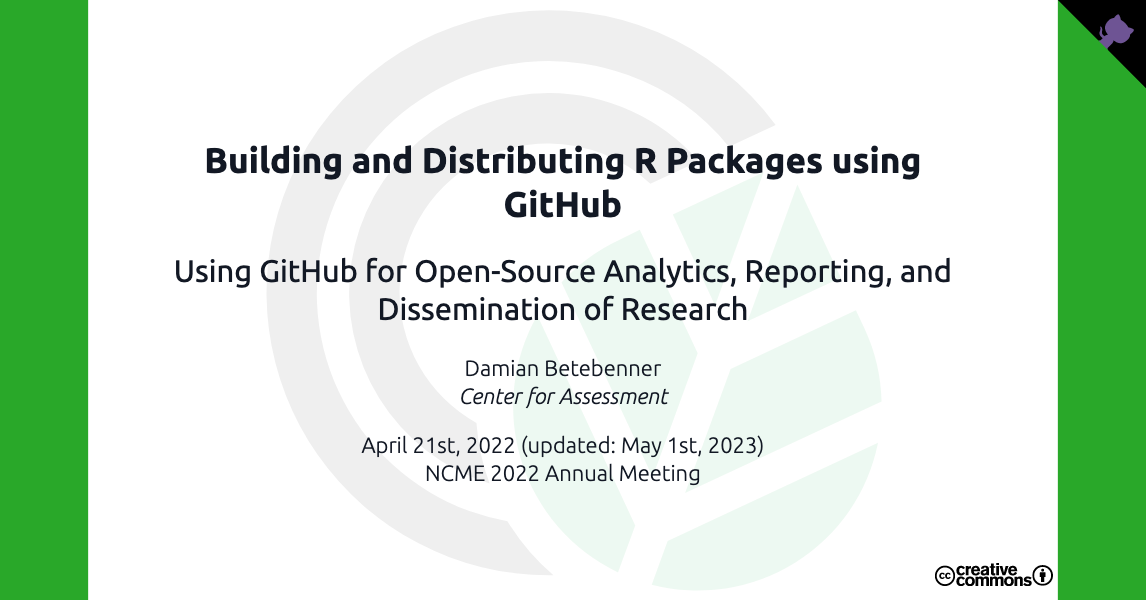
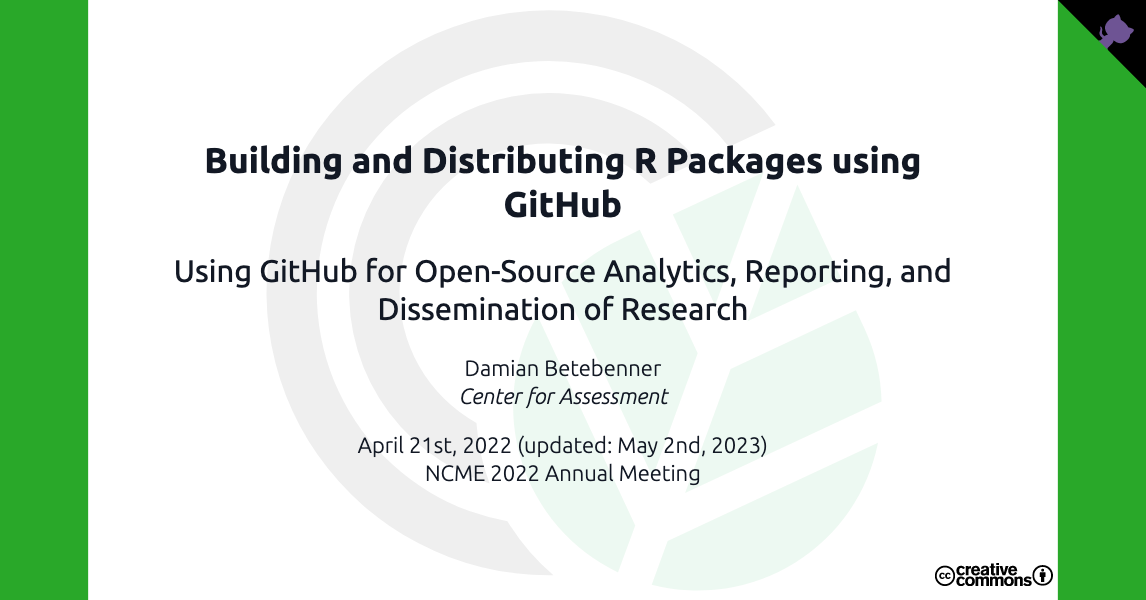
Trying to fix up repo

Changed region(s): [[0.3054, 0.72, 0.6719, 0.78]]

diff --git a/docs/presentations/Years_of_Learning.html b/docs/presentations/Years_of_Learning.html
@@ -92,7 +92,7 @@ class: center, middle, inverse, title-slide
 ### Center for Assessment <a href="https://github.com/CenterForAssessment/NCME_2022_Demonstration/blob/main/Presentations/Building_and_Distributing_R_Packages_Using_GitHub.Rmd" class="github-corner" aria-label="View source on Github"> <svg width="80" height="80" viewBox="0 0 250 250" style="position: absolute; top: 0px; right: 0px; border: 0px;" aria-hidden="true"> <path d="M0,0 L115,115 L130,115 L142,142 L250,250 L250,0 Z" fill="#000000"></path> <path class="octo-arm" d="M128.3,109.0 C113.8,99.7 119.0,89.6 119.0,89.6 C122.0,82.7 120.5,78.6 120.5,78.6 C119.2,72.0 123.4,76.3 123.4,76.3 C127.3,80.9 125.5,87.3 125.5,87.3 C122.9,97.6 130.6,101.9 134.4,103.2" fill="#6e5494" style="transform-origin: 130px 106px;"></path> <path class="octo-body" d="M115.0,115.0 C114.9,115.1 118.7,116.5 119.8,115.4 L133.7,101.6 C136.9,99.2 139.9,98.4 142.2,98.6 C133.8,88.0 127.5,74.4 143.8,58.0 C148.5,53.4 154.0,51.2 159.7,51.0 C160.3,49.4 163.2,43.6 171.4,40.1 C171.4,40.1 176.1,42.5 178.8,56.2 C183.1,58.6 187.2,61.8 190.9,65.4 C194.5,69.0 197.7,73.2 200.1,77.6 C213.8,80.2 216.3,84.9 216.3,84.9 C212.7,93.1 206.9,96.0 205.4,96.6 C205.1,102.4 203.0,107.8 198.3,112.5 C181.9,128.9 168.3,122.5 157.7,114.1 C157.9,116.9 156.7,120.9 152.7,124.9 L141.0,136.5 C139.8,137.7 141.6,141.9 141.8,141.8 Z" fill="#6e5494"></path> </svg> </a>
 ]
 .date[
-### April 21st, 2022 (updated: May 1st, 2023)<br />NCME 2022 Annual Meeting
+### April 21st, 2022 (updated: May 2nd, 2023)<br />NCME 2022 Annual Meeting
 ]
 
 ---
